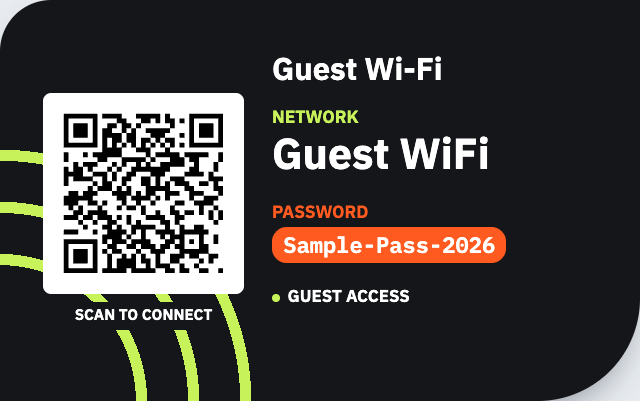
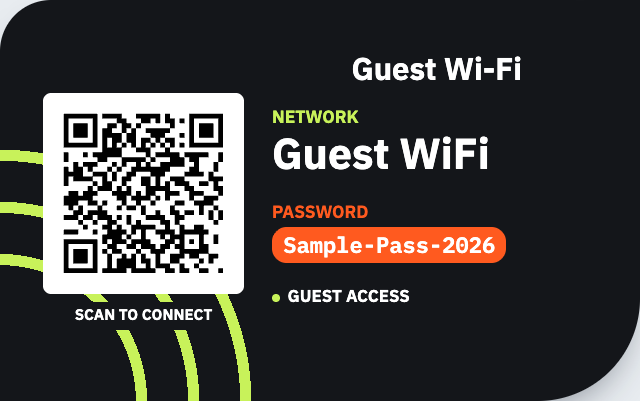
Center the heading in the right column

Changed region(s): [[0.4062, 0.1197, 0.8125, 0.2095]]

diff --git a/index.html b/index.html
@@ -68,7 +68,7 @@ button:hover:not(:disabled){filter:brightness(1.06)}
 .wifi-card .corner{position:absolute;inset:0;border-radius:inherit;pointer-events:none;background:radial-gradient(circle at 0 100%,
   transparent 0 24.33cqi,var(--c-a1) 24.33cqi 26.33cqi,transparent 26.33cqi 33.67cqi,var(--c-a1) 33.67cqi 35.67cqi,transparent 35.67cqi 43cqi,var(--c-a1) 43cqi 45cqi,transparent 45cqi)}
 .card-left{display:grid;gap:3cqi;min-width:0;position:relative;z-index:1}
-.card-head{display:flex;align-items:center;gap:2.6cqi;min-width:0}
+.card-head{display:flex;align-items:center;justify-content:center;gap:2.6cqi;min-width:0}
 .card-head svg{width:7cqi;height:auto;flex:none;color:var(--c-a1)}
 .card-head canvas{height:8cqi;width:auto;max-width:30cqi;flex:none}
 .card-title{font-size:5.3cqi;font-weight:700;line-height:1.15;overflow-wrap:anywhere}
@@ -478,14 +478,15 @@ footer{grid-column:1/-1;font-size:.8rem;color:var(--muted);text-align:center}
     if($("frame").checked){G.a1.lineWidth=S(1.2);rrc(G.a1,S(3),S(3),S(144),S(88),[S(9),0,S(21),0]);G.a1.stroke();}
 
     // 見出し行: ロゴ（高さ12mm枠）または Wi-Fi アイコン + 見出し
-    let headR;
+    // 見出し（ロゴ + タイトル）は右列（x 74〜140 mm）の中央に置く
+    const T=$("title").value,asp=logoImg?logoAspect():1,lw=logoImg?Math.min(12*asp,45):0,gap=logoImg?4:0,avail=66-lw-gap;
+    G.white.font=`700 ${S(8)}px ${SANS}`;
+    const tw=T?Math.min(G.white.measureText(T).width/S(1),Math.max(avail,0)):0,x0=107-(lw+gap+tw)/2;
     if(logoImg){
-      const asp=logoAspect(),lw=Math.min(12*asp,45),lh=lw/asp;
-      const pw=Math.max(1,Math.round(S(lw))),ph=Math.max(1,Math.round(S(lh)));
-      G[$("logoLayer").value].drawImage(maskToCanvas(logoMask(pw,ph),pw,ph,"#ffffff"),Math.round(S(72)),Math.round(S(8+(12-lh)/2)));
-      headR=72+lw;
-    }else headR=70;
-    text(G.white,$("title").value,headR+4,20,8,700,SANS,140-(headR+4));
+      const lh=lw/asp,pw=Math.max(1,Math.round(S(lw))),ph=Math.max(1,Math.round(S(lh)));
+      G[$("logoLayer").value].drawImage(maskToCanvas(logoMask(pw,ph),pw,ph,"#ffffff"),Math.round(S(x0)),Math.round(S(8+(12-lh)/2)));
+    }
+    text(G.white,T,x0+lw+gap,20,8,700,SANS,tw);
 
     text(G.a1,L.net,74,34,4.6,700,SANS,66);
     text(G.white,$("ssid").value,74,46.5,11,700,SANS,66);
